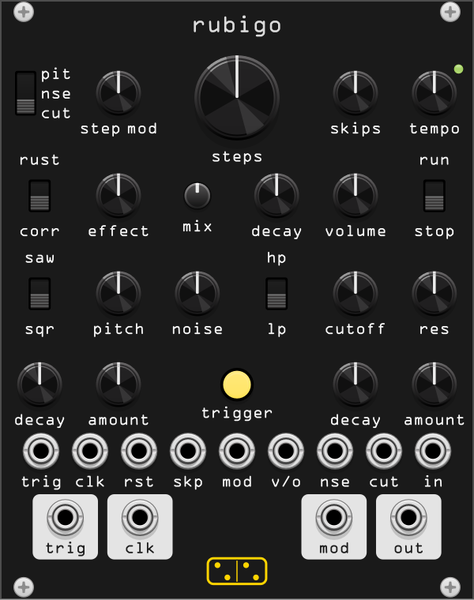
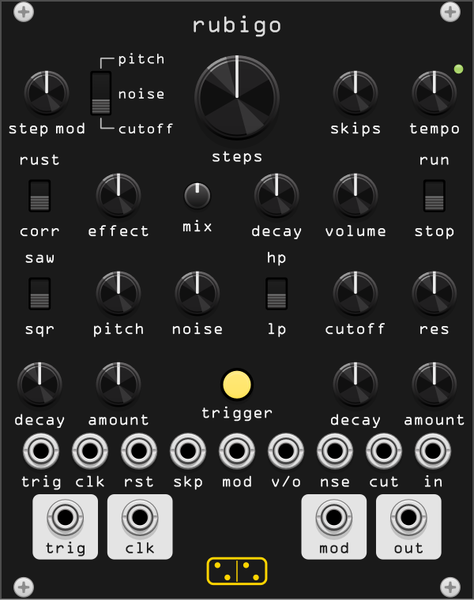
feat(rubigo): the destination switch beside STEP MOD, its positions spelled out and reached by leaders
Claude-Session: https://claude.ai/code/session_01SYmKkk5ugc3NX2Qbio7aJd

Changed region(s): [[0.0, 0.09, 0.3544, 0.24]]

diff --git a/tools/panels/gen_rubigo_panel.py b/tools/panels/gen_rubigo_panel.py
@@ -1,0 +1,84 @@
+#!/usr/bin/env python3
+"""Generate res/rubigo.svg: the standard panel plus the destination switch's
+leaders.
+
+The panel is the one the panel editor draws from the @layout block in
+src/rubigo.cpp. On top of it, two leaders run from the ends of the
+destination switch (DEST_PARAM) to the labels of its end positions: up from
+the top of the switch and across to **pit**, down from the bottom and across
+to **cut**. The middle label, **nse**, sits level with the switch and needs
+none. The leaders are read from where the switch and the labels are, so
+moving either in the editor moves them too.
+
+Usage (from the repo root, with the fonttools venv the editor uses):
+    ~/dl/audio/fonttools-venv/bin/python tools/panels/gen_rubigo_panel.py
+The panel editor runs it on Save (`svg=` on the @layout line).
+"""
+
+import importlib.util
+import os
+import sys
+
+ROOT = os.path.abspath(os.path.join(os.path.dirname(__file__), '..', '..'))
+CPP = os.path.join(ROOT, 'src', 'rubigo.cpp')
+SVG = os.path.join(ROOT, 'res', 'rubigo.svg')
+
+LEADER = '#bfbfbf'
+WIDTH = 0.3
+SWITCH_HALF_H = 4.8     # CKSSThree: 28.35 px at 75 dpi
+GAP_SWITCH = 0.6        # between the switch's end and the leader
+GAP_LABEL = 0.8         # between the leader and its label
+SWITCH, TOP, BOTTOM = 'DEST_PARAM', 'LABEL_PIT', 'LABEL_CUT'
+
+
+def load(name, path):
+    spec = importlib.util.spec_from_file_location(name, path)
+    mod = importlib.util.module_from_spec(spec)
+    spec.loader.exec_module(mod)
+    return mod
+
+
+def leaders(elems, text_w):
+    by = {e['id']: e for e in elems}
+    sw = by[SWITCH]
+    out = []
+    for lid, sign in ((TOP, -1), (BOTTOM, 1)):
+        lb = by[lid]
+        sz = lb.get('size', 2.2)
+        mid = lb['y'] - sz / 2                       # the label's cap middle
+        left = lb['x'] - text_w(lb['label'], sz) / 2 - GAP_LABEL
+        start = sw['y'] + sign * (SWITCH_HALF_H + GAP_SWITCH)
+        out.append(f'<path d="M{sw["x"]:.2f} {start:.2f} L{sw["x"]:.2f} {mid:.2f} L{left:.2f} {mid:.2f}" '
+                   f'fill="none" stroke="{LEADER}" stroke-width="{WIDTH}" '
+                   f'stroke-linecap="round" stroke-linejoin="round"/>')
+    return out
+
+
+def main():
+    pe = load('panel_editor', os.path.join(ROOT, 'tools', 'panel-editor', 'panel-editor.py'))
+    layout = pe.parse_cpp(CPP)
+    if not layout:
+        print(f'no @layout block in {CPP}')
+        return 1
+    layout['svg_gen'] = None          # draw the standard panel, not this again
+    if not pe.regen_svg(layout, SVG) and not os.path.exists(SVG):
+        return 1
+    svg = open(SVG).read()
+    pe._ensure_fonttools()
+    from fontTools.ttLib import TTFont
+    font = TTFont(pe._find_font())
+    glyphs, cmap, cap = font.getGlyphSet(), font.getBestCmap(), font['OS/2'].sCapHeight
+
+    def text_w(txt, sz):
+        return sum(glyphs.get(cmap.get(ord(c), c), glyphs.get('.notdef')).width for c in txt) * sz / cap
+
+    group = '  <g id="leaders">\n    ' + '\n    '.join(leaders(layout['elements'], text_w)) + '\n  </g>\n'
+    svg = svg.replace('</svg>', group + '</svg>', 1)
+    with open(SVG, 'w') as f:
+        f.write(svg)
+    print(f'wrote {os.path.relpath(SVG, ROOT)}')
+    return 0
+
+
+if __name__ == '__main__':
+    sys.exit(main())

diff --git a/src/rubigo.cpp b/src/rubigo.cpp
@@ -406,7 +406,7 @@ struct RubigoWidget : ModuleWidget {
         setModule(module);
         setPanel(createPanel(asset::plugin(pluginInstance, "res/rubigo.svg")));
 
-        // @layout:begin rubigo 101.6 128.5
+        // @layout:begin rubigo 101.6 128.5 svg=tools/panels/gen_rubigo_panel.py
 // @elem SCREW_TL ScrewSilver 3.5 screw "" 0.0
 // @elem SCREW_TR ScrewSilver 3.5 screw "" 0.0
 // @elem SCREW_BL ScrewSilver 3.5 screw "" 0.0
@@ -447,10 +447,10 @@ struct RubigoWidget : ModuleWidget {
 // @elem CLOCK_OUTPUT PJ301MPort 4.01 output "" 0.0
 // @elem STEPMOD_OUTPUT PJ301MPort 4.01 output "" 0.0
 // @elem AUDIO_OUTPUT PJ301MPort 4.01 output "" 0.0
-// @elem LABEL_PIT label 0.0 label "pit" 0.0 12.00 16.80 size=2
-// @elem LABEL_NSE label 0.0 label "nse" 0.0 12.00 21.00 size=2
-// @elem LABEL_CUT label 0.0 label "cut" 0.0 12.00 25.20 size=2
-// @elem LABEL_STEPMOD label 0.0 label "step mod" 0.0 25.40 28.50
+// @elem LABEL_PIT label 0.0 label "pitch" 0.0 30.30 13.50 size=2
+// @elem LABEL_NSE label 0.0 label "noise" 0.0 30.30 21.00 size=2
+// @elem LABEL_CUT label 0.0 label "cutoff" 0.0 31.32 28.50 size=2
+// @elem LABEL_STEPMOD label 0.0 label "step mod" 0.0 10.00 28.50
 // @elem LABEL_STEPS label 0.0 label "steps" 0.0 50.80 34.50
 // @elem LABEL_SKIPS label 0.0 label "skips" 0.0 76.20 28.50
 // @elem LABEL_TEMPO label 0.0 label "tempo" 0.0 93.10 28.50
@@ -498,8 +498,8 @@ struct RubigoWidget : ModuleWidget {
         addChild(createWidget<ScrewSilver>(mm2px(Vec(93.98f, 0.00f)))); // SCREW_TR
         addChild(createWidget<ScrewSilver>(mm2px(Vec(2.54f, 123.42f)))); // SCREW_BL
         addChild(createWidget<ScrewSilver>(mm2px(Vec(93.98f, 123.42f)))); // SCREW_BR
-        addParam(createParamCentered<CKSSThreePos>(mm2px(Vec(5.50f, 20.00f)), module, Rubigo::DEST_PARAM));
-        addParam(createParamCentered<RoundBlackKnob>(mm2px(Vec(25.40f, 20.00f)), module, Rubigo::STEPMOD_PARAM));
+        addParam(createParamCentered<CKSSThreePos>(mm2px(Vec(21.63f, 20.00f)), module, Rubigo::DEST_PARAM));
+        addParam(createParamCentered<RoundBlackKnob>(mm2px(Vec(10.00f, 20.00f)), module, Rubigo::STEPMOD_PARAM));
         addParam(createParamCentered<RoundHugeBlackKnob>(mm2px(Vec(50.80f, 21.00f)), module, Rubigo::STEPS_PARAM));
         addParam(createParamCentered<RoundBlackKnob>(mm2px(Vec(76.20f, 20.00f)), module, Rubigo::SKIPS_PARAM));
         addParam(createParamCentered<RoundBlackKnob>(mm2px(Vec(93.10f, 20.00f)), module, Rubigo::TEMPO_PARAM));

diff --git a/doc/rubigo.md b/doc/rubigo.md
@@ -26,7 +26,7 @@ write them.
 
 | row | contents |
 |---|---|
-| top | the destination switch **pit / nse / cut**, **step mod**, **steps**, **skips**, **tempo** with the clock light |
+| top | **step mod** and its destination switch **pitch / noise / cutoff**, **steps**, **skips**, **tempo** with the clock light |
 | second | **rust / corr**, the **effect** knob, **mix**, the volume **decay**, **volume**, **run / stop** |
 | third | **saw / sqr**, **pitch**, **noise**, **hp / lp**, **cutoff**, **res** |
 | fourth | the pitch envelope's **decay** and **amount**, **trigger**, the cutoff envelope's **decay** and **amount** |
@@ -64,7 +64,7 @@ For a click at the start of a sound: **cutoff** low in **lp**, the cutoff
 | **run / stop** | starts and stops the sequencer. **trigger** and **trig** in work either way |
 | **tempo** | the internal clock, 0.4 Hz to 80 Hz, which is audio rate: 2 Hz at the default 0.2, 4 Hz near 0.27, 6 Hz near 0.35. With a clock at **clk**, a ratio instead: /8, /4, /2, x1, x2, x4, x8 across its travel; the default sits on /4 |
 | **skips** | the share of steps that do not fire, 0% to 100% |
-| **step mod**, **pit / nse / cut** | how far each step's random value moves the destination. On **pit**, **pitch** sets the lowest note and **step mod** the highest, read on the same scale as **pitch** (up to 1500 Hz at full); the notes are microtonal. On **cut** it adds up to 5 kHz |
+| **step mod**, **pitch / noise / cutoff** | how far each step's random value moves the destination. With the switch on pitch, the **pitch** knob sets the lowest note and **step mod** the highest, read on the same scale as **pitch** (up to 1500 Hz at full); the notes are microtonal. On cutoff it adds up to 5 kHz |
 | **steps** | **off**, 2, 4, 8, 10, 16 or 32 |
 
 Each step holds two random numbers. One is compared with **skips**: the
@@ -109,7 +109,7 @@ it is still there.
 | item | function |
 |---|---|
 | **Effect** | replaces the distortion. **2nd oscillator**: a second oscillator mixed at up to 50% (by **mix**), **corr** ranging an octave down to unison, **rust** unison to an octave up, set by the **effect** knob. **Phaser**, **flanger**, **chorus**: **corr** subtle, **rust** intense, the knob sets the LFO from 0.05 Hz to 8 Hz |
-| **Mod assign** | sends the step value on **cut**, and the **cut** jack, somewhere other than the cutoff: volume decay, pitch decay amount, cutoff decay amount or the effect knob (the knob is the minimum, the modulation pushes it up), or volume (the knob is the maximum, the modulation pulls it down) |
+| **Mod assign** | sends the step value on cutoff, and the **cut** jack, somewhere other than the cutoff: volume decay, pitch decay amount, cutoff decay amount or the effect knob (the knob is the minimum, the modulation pushes it up), or volume (the knob is the maximum, the modulation pulls it down) |
 | **Step lengths** | 3 5 7 12 18 24 instead of 2 4 8 10 16 32 |
 | **Restart the sequence on run** | switching to **run** starts from step one |
 | **Internal clock returns when the external stops** | on by default. Off, the sequencer waits until **run / stop** is switched again |
@@ -140,7 +140,7 @@ of 200 reasoned ones, none.
 
 Eleven, in the preset browser. Most are the hardware manual's own "try
 this" recipes: **kick**, **clatter** (kick and noise from the step mod on
-**nse**), **melody** (the filter's resonance playing the steps), **drone**,
+noise), **melody** (the filter's resonance playing the steps), **drone**,
 **wireless** (the sound-effect setting: patch something into **in**),
 **ticks** (the cutoff click). The rest use the menu: **swell** (Mod assign
 on the volume decay), **sub** (the 2nd oscillator an octave down),
@@ -164,7 +164,7 @@ These are from the hardware manual.
   out into **in**, and **noise** crossfades between the oscillator and the
   clock's pulse wave.
 - **Just the resonance**: an unconnected cable in **in**, **noise** full,
-  **res** full, **step mod** on **cut**. The filter plays alone.
+  **res** full, **step mod** on cutoff. The filter plays alone.
 - **Rhythmic processing**: a radio, tape hiss or a drone into **in**,
   **noise** up. With **tempo**, the volume **decay** and **noise** all at
   full, rubigo is an effect.

diff --git a/doc/design/rubigo.md b/doc/design/rubigo.md
@@ -409,9 +409,11 @@ own names and values.
   the hardware's trigger LED. The clock LED sits at TEMPO's corner.
 - **The panel** is 20 HP: four rows of knobs and switches on six columns,
   nine inputs in one row, four output badges either side of the logo. The
-  two-way switches' positions are labelled above and below; the
-  destination switch **pit / nse / cut** has its three in a small column on
-  its right, one level with each position, as on spira.
+  two-way switches' positions are labelled above and below. The
+  destination switch sits right of **step mod**, where there is room to
+  spell its positions out: **pitch / noise / cutoff** in a column on its
+  right, the middle one level with it and the ends reached by leaders from
+  the switch's ends (drawn by `tools/panels/gen_rubigo_panel.py`).
 - **Measured**: of 200 uniform draws of every control, 31 are inaudible
   (peak under 0.5 V over 4 s); of 200 reasoned randoms, none
   (`rubigo_probe random`). CPU is 105 to 155 ns a sample, 0.5 to 0.75% of a
